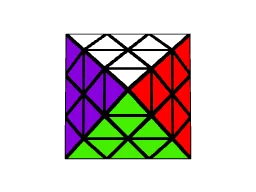
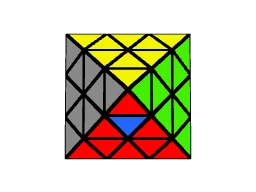
Add camera longitude and algorithm prefix support in puzzle components; update YAML configurations and thumbnails

Changed region(s): [[0.25, 0.1562, 0.75, 0.8438]]

diff --git a/src/content.config.ts b/src/content.config.ts
@@ -21,6 +21,7 @@ import { docsSchema } from '@astrojs/starlight/schema';
  * - `preset` - per-case setup-alg prefix; overrides file/family-level prefixes.
  * - `postset` - per-case move/rotation appended after the alg; overrides
  *   file/family-level suffixes.
+ * - `alg_prefix` - per-case override for the file-level `alg_prefix` (use `""` to opt out).
  */
 const algCase = z.object({
 	id: z.string(),
@@ -34,6 +35,7 @@ const algCase = z.object({
 	eif_label: z.string().optional(),
 	preset: z.string().optional(),
 	postset: z.string().optional(),
+	alg_prefix: z.string().optional(),
 	thumbnail: z.string().optional(),
 }).passthrough(); // allows showcase_alg1, showcase_alg2, ... for multi-alg cases
 
@@ -54,6 +56,16 @@ const algs = defineCollection({
 		// Overrides `setup_suffix` for cases in that family.
 		// A case-level `postset` still takes precedence over both.
 		family_suffixes: z.record(z.string(), z.string()).optional(),
+		// Prepended to the interactive solving alg only (not the setup-alg).
+		// Use when algs assume a different base orientation than the setup provides.
+		// NOT applied in the thumbnail renderer — safe to change without
+		// regenerating webp thumbnails.
+		alg_prefix: z.string().optional(),
+		// Per-family alg_prefix overrides (family name -> prefix).
+		family_alg_prefixes: z.record(z.string(), z.string()).optional(),
+		// Camera longitude in degrees for the interactive twisty-player.
+		// Compensates for alg_prefix rotation applied to the setup.
+		camera_longitude: z.number().optional(),
 		// Render thumbnails from a raised top-down camera angle (shows the top
 		// face plus all sides) instead of the default flat face-on view.
 		top_down: z.boolean().optional(),

diff --git a/src/scripts/puzzle-viewer.ts b/src/scripts/puzzle-viewer.ts
@@ -37,6 +37,7 @@ function activate(host: HTMLElement): void {
 	const puzzle = host.dataset.puzzle ?? 'fto';
 	const alg = host.dataset.alg ?? '';
 	const setupAlg = host.dataset.setupAlg;
+	const cameraLongitude = host.dataset.cameraLongitude;
 
 	void loadTwisty()
 		.then(() => {
@@ -47,6 +48,7 @@ function activate(host: HTMLElement): void {
 			player.setAttribute('puzzle', puzzle);
 			player.setAttribute('alg', alg);
 			if (setupAlg) player.setAttribute('experimental-setup-alg', setupAlg);
+			if (cameraLongitude) player.setAttribute('camera-longitude', cameraLongitude);
 			player.setAttribute('hint-facelets', 'none');
 			player.setAttribute('background', 'none');
 			player.style.width = '256px';
